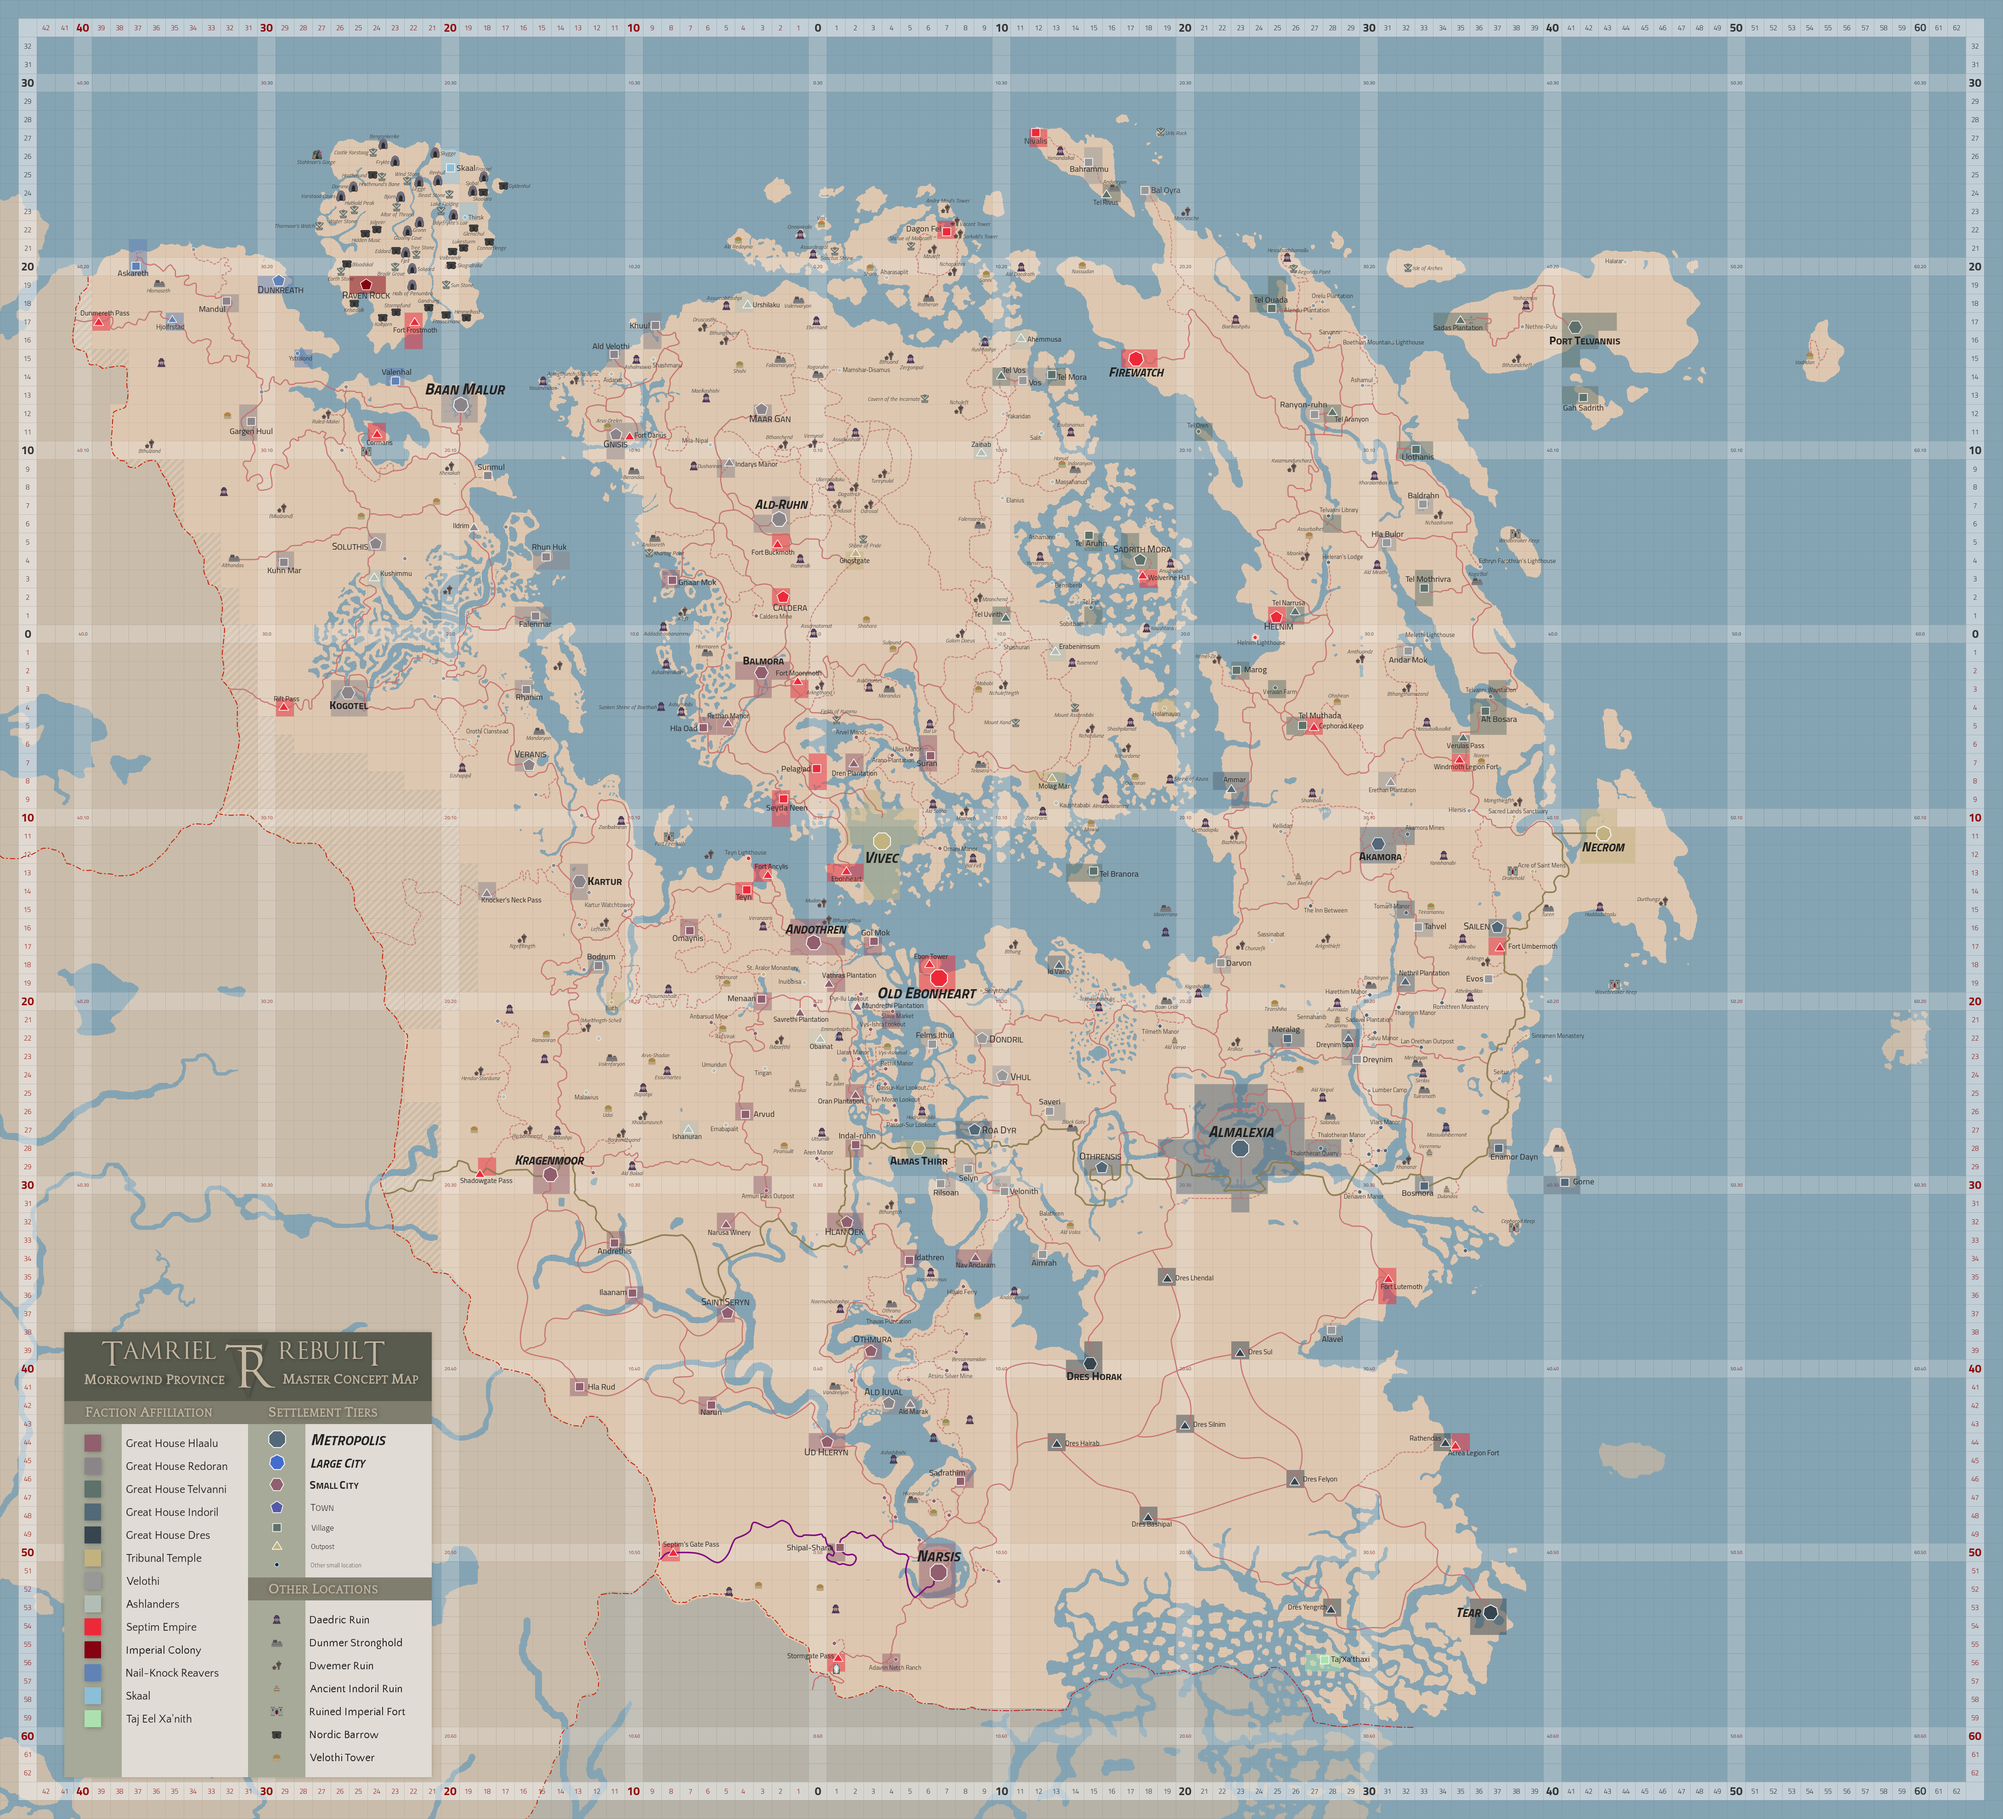
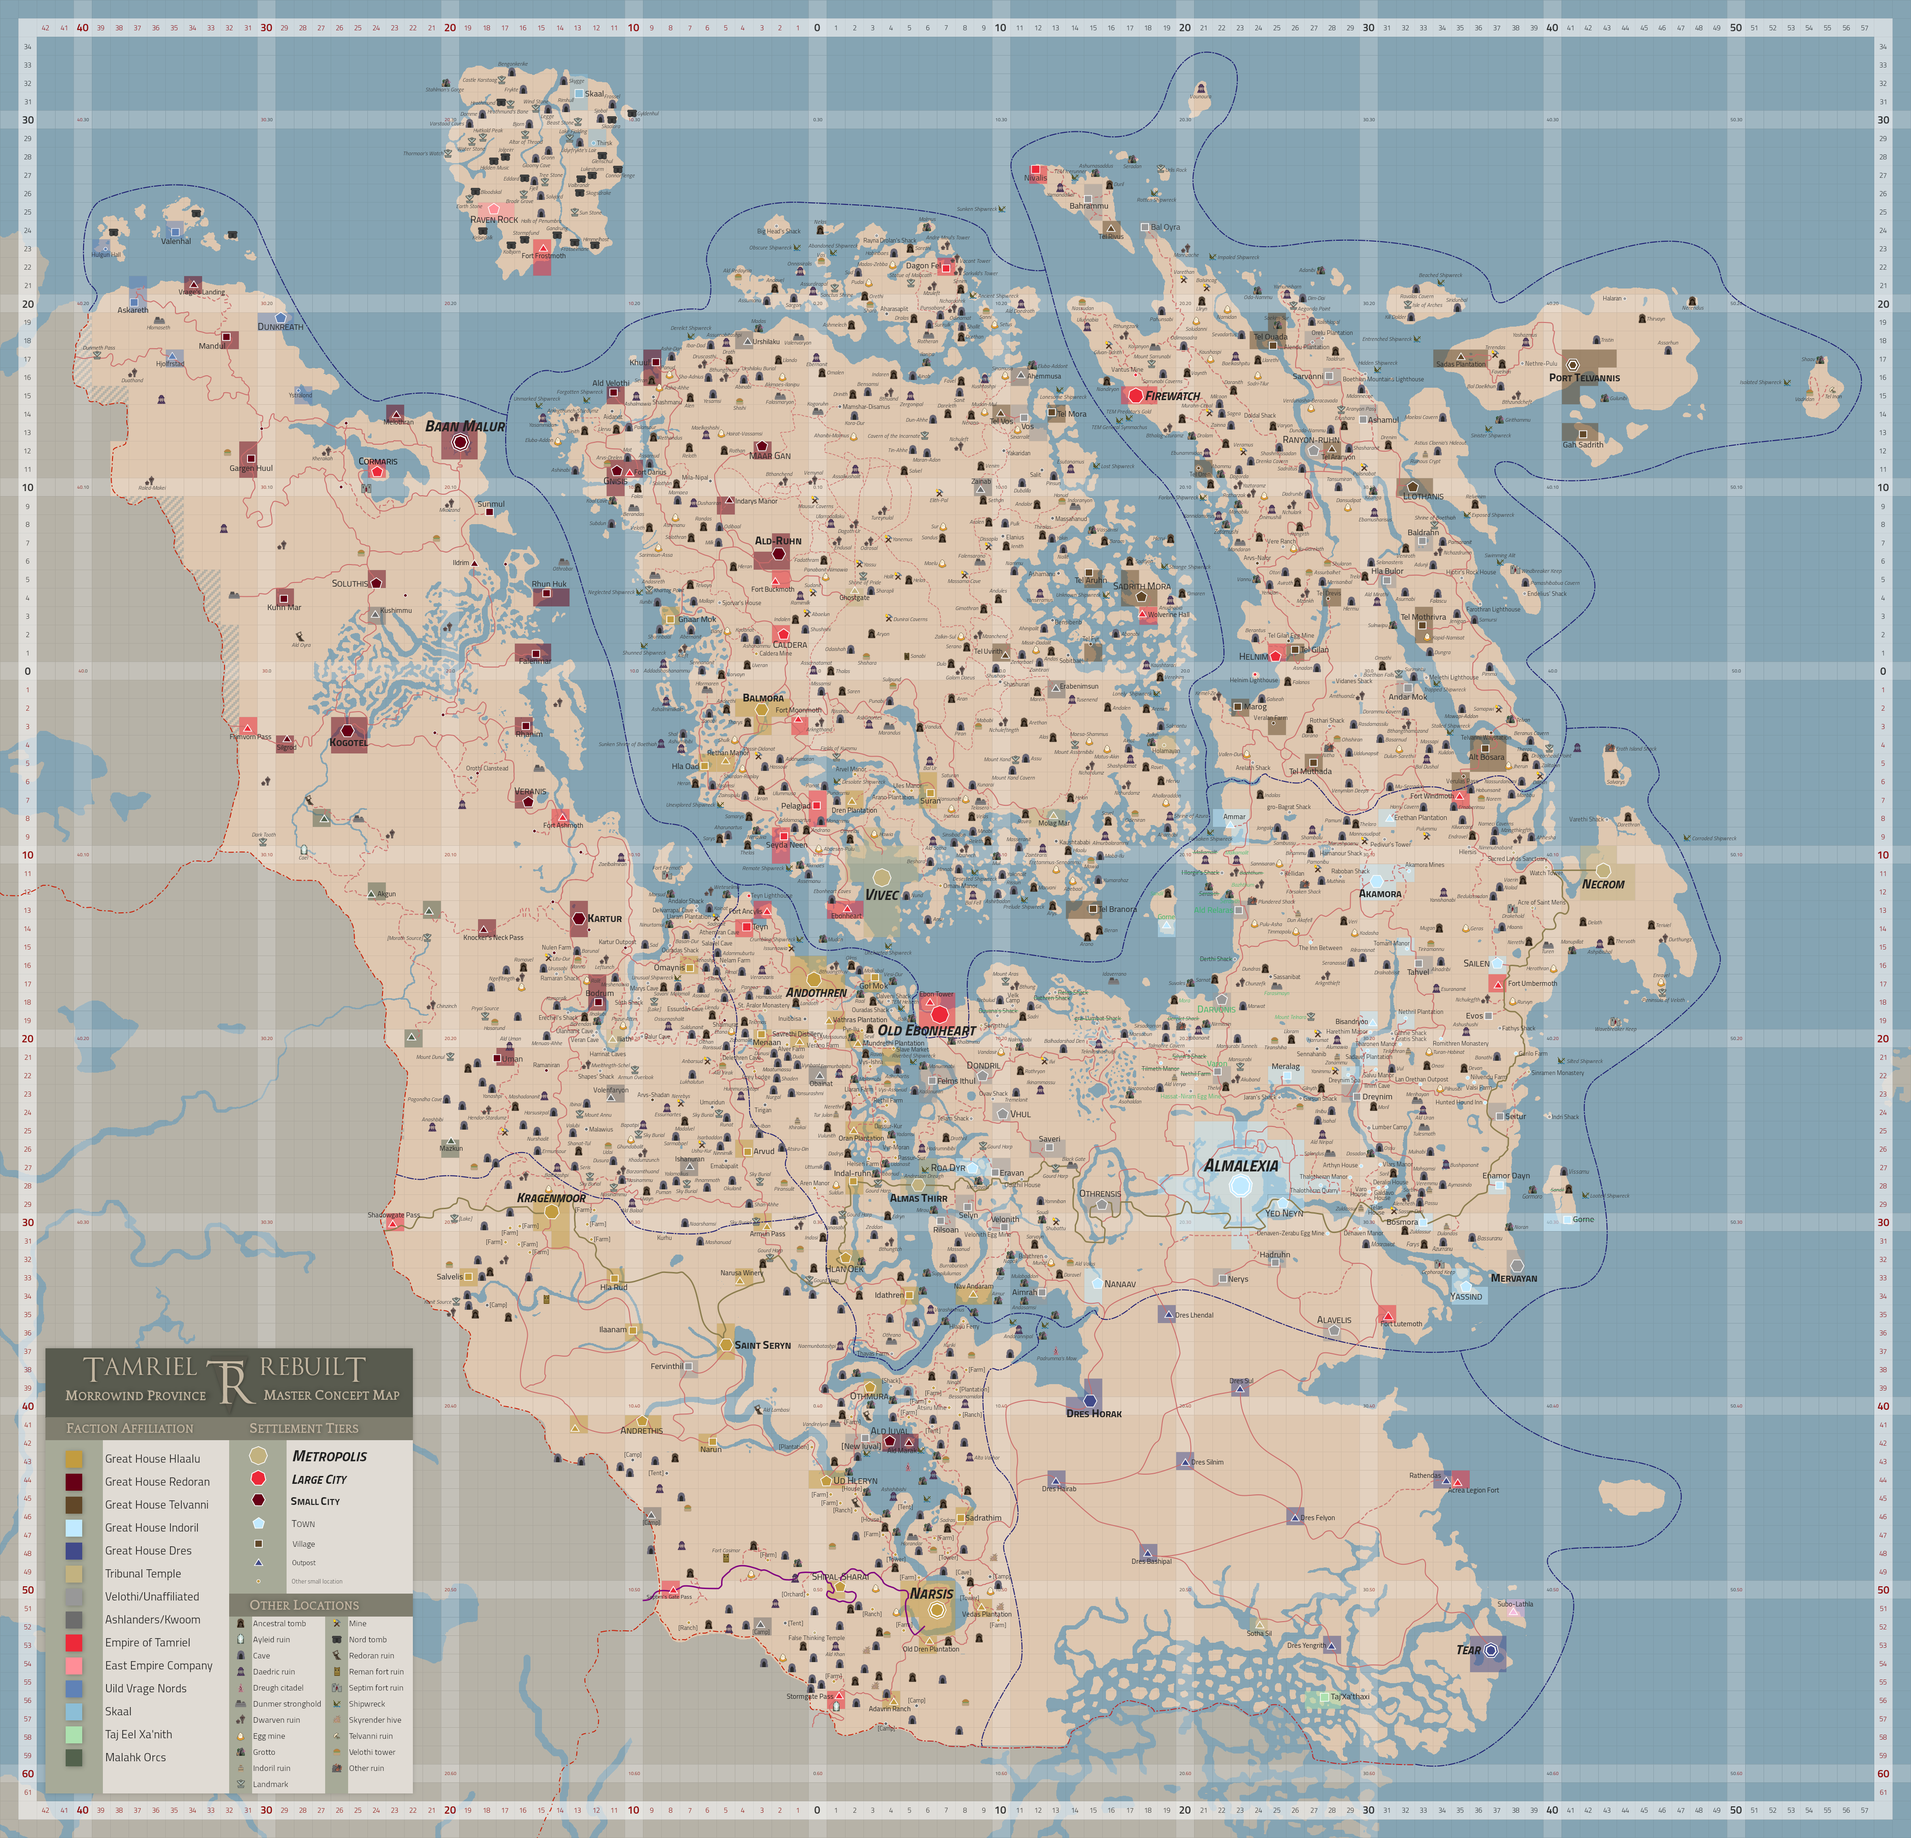
update to the DoD map

diff --git a/main.py b/main.py
@@ -35,8 +35,8 @@ def produce_map(img, coord_dict, map_type, mod_list):
 
     
     # cell coordinates of the world map
-    grid_xlim = [-44,64]
-    grid_ylim = [-64,34]
+    grid_xlim = [-44,59]
+    grid_ylim = [-63,36]
     # pixel scale of the world map grid in 'img'
     grid_size = 40 
 
